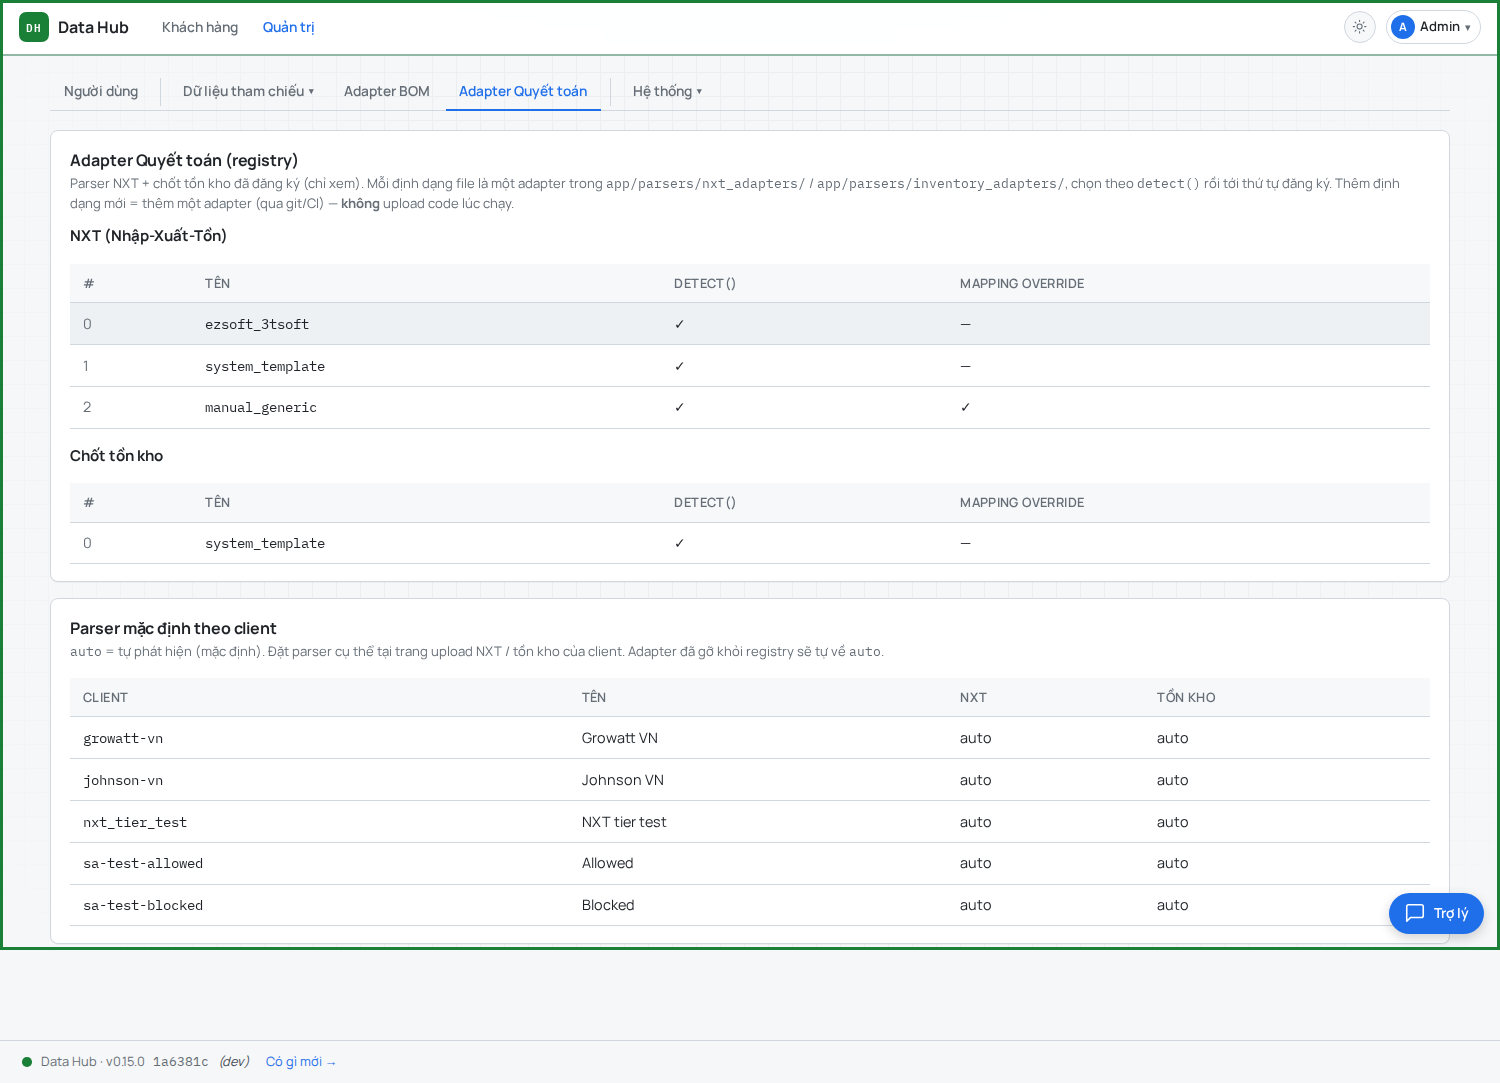
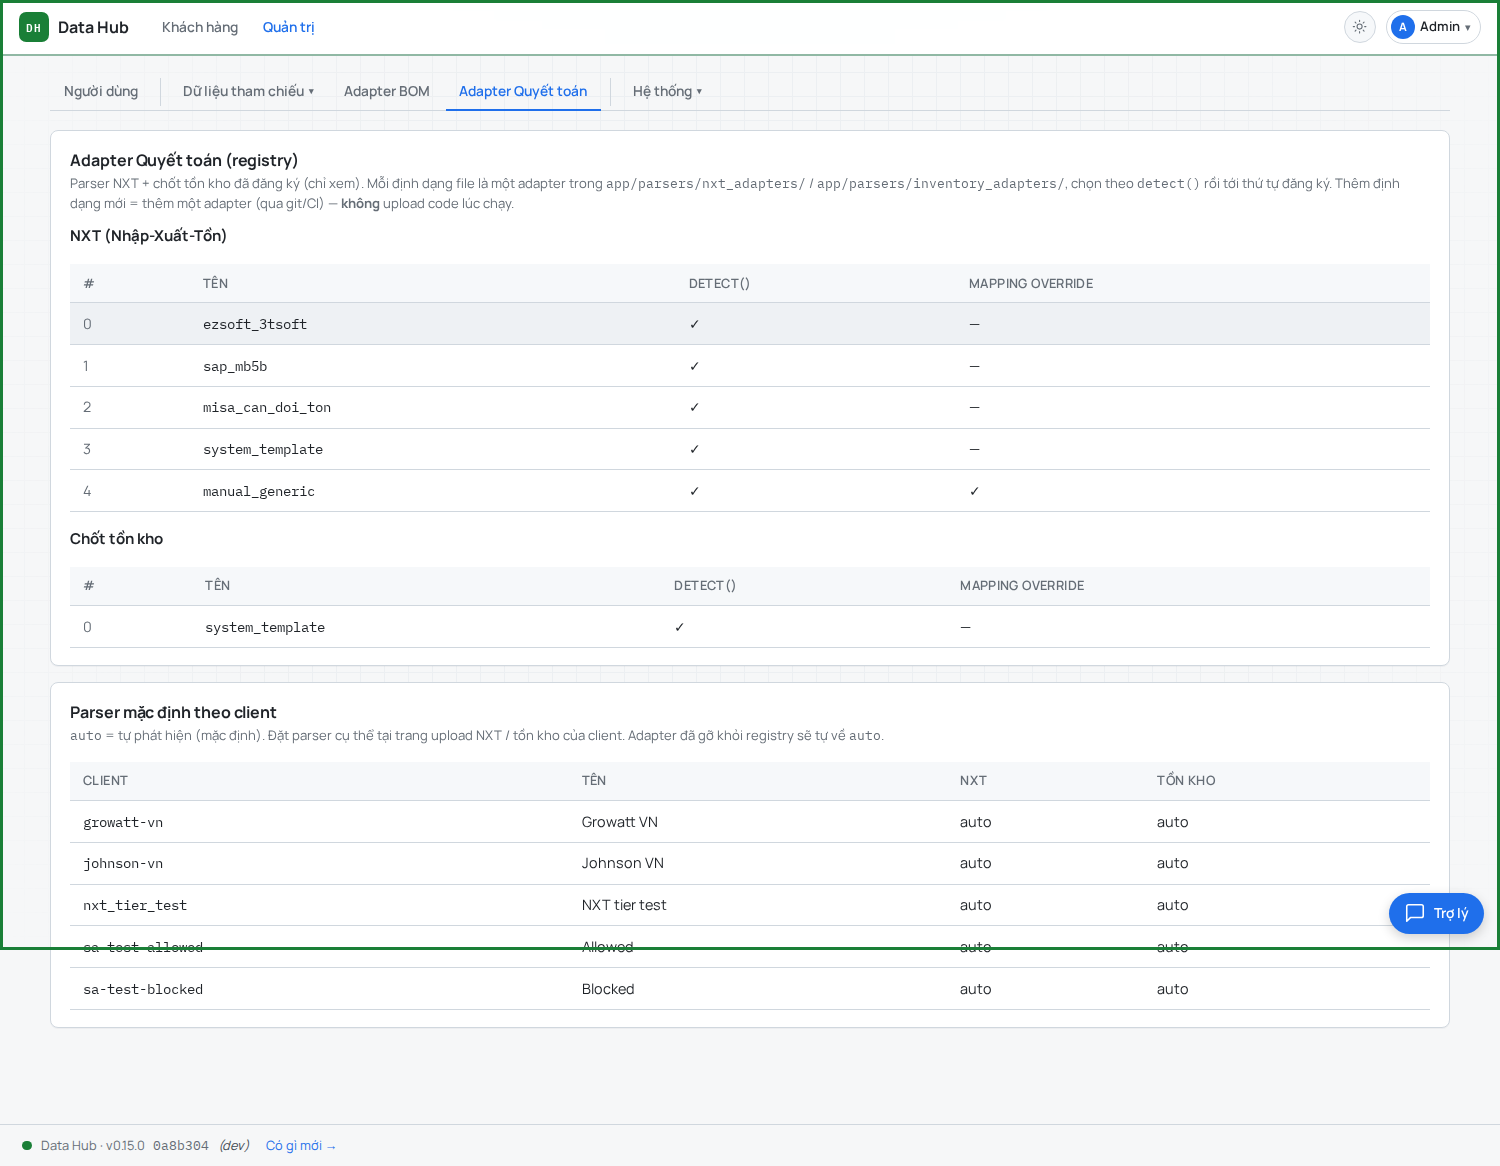
feat(nxt): sap_mb5b + misa_can_doi_ton adapters (slice 3)
Two more real-ERP NXT adapters, both validated on the real client files:
- sap_mb5b: SAP MB5B per-material detail (Johnson). Clean snake_case row-1
  headers; lumped issue → outbound_total; reported_role left null (GL/valuation
  → role is per-client SAP config, not baked into the shared adapter). 20064
  lines on the real file.
- misa_can_doi_ton: MISA "CÂN ĐỐI TỒN KHO" (Hồng Phúc/An). Two-row merged header
  at scattered columns (combined + substring matched, like ezsoft) with
  "Kho hàng:" warehouse section breaks skipped. Gated on the report title so it
  never greedily claims a generic file. 123 lines on the real file.

NXT registry now has 5 adapters. Tests: 25 in-feature + full suite 1519 passed.

diff --git a/app/parsers/nxt_adapters/misa_can_doi_ton.py b/app/parsers/nxt_adapters/misa_can_doi_ton.py
@@ -1,0 +1,116 @@
+"""misa_can_doi_ton — MISA "CÂN ĐỐI TỒN KHO" NXT export.
+
+Layout: title block (rows 1-6), a two-row merged header (row N-1 carries
+Mã Hàng / Tên Hàng / ĐVT, row N carries the Số Lượng sub-columns Đầu Kỳ / Nhập
+/ Xuất / Cuối Kỳ at scattered, merged-cell column positions), then data rows
+interleaved with "Kho hàng: …" warehouse section breaks.
+
+Headers + qty markers live on different rows and at non-adjacent columns, so —
+like ezsoft_3tsoft — this adapter combines the two header rows per column and
+matches by substring rather than the exact-match alias index.
+"""
+from __future__ import annotations
+
+from app.parsers._excel import cell_num, cell_str, load_xlsx
+
+
+def _find_col(cells: list[str], *needles: str) -> int | None:
+    for i, c in enumerate(cells):
+        low = (c or "").lower()
+        if any(n in low for n in needles):
+            return i
+    return None
+
+
+def _has_marker(ws) -> bool:
+    """True if the sheet carries the distinctive MISA report title. Keeps parse
+    keyed on the same signal as detect() so it never greedily claims a generic
+    NXT file that merely has Đầu Kỳ/Cuối Kỳ headers."""
+    head = " ".join(
+        ("" if c is None else str(c)).lower()
+        for row in ws.iter_rows(min_row=1, max_row=8, values_only=True)
+        for c in row)
+    return "cân đối tồn kho" in head
+
+
+def _qty_header_row(ws) -> int | None:
+    """The Số Lượng sub-header row — carries both Đầu Kỳ and Cuối Kỳ."""
+    for idx, row in enumerate(ws.iter_rows(min_row=1, max_row=20, values_only=True),
+                              start=1):
+        joined = " ".join(("" if c is None else str(c)).lower() for c in row)
+        if "đầu kỳ" in joined and "cuối kỳ" in joined:
+            return idx
+    return None
+
+
+class MisaCanDoiTonAdapter:
+    name = "misa_can_doi_ton"
+    label_key = "nxt.adapter.misa_can_doi_ton.label"
+    description_key = "nxt.adapter.misa_can_doi_ton.desc"
+    supports_mapping_override = False
+
+    def detect(self, blob: bytes) -> float | None:
+        try:
+            wb = load_xlsx(blob)
+        except Exception:
+            return None
+        for ws in wb.worksheets:
+            if _has_marker(ws):
+                return 0.9
+        return None
+
+    def parse(self, blob: bytes, *,
+              mapping_override: dict[str, str] | None = None) -> list[dict]:
+        from app.parsers.nxt_adapters import NxtParseError
+        try:
+            wb = load_xlsx(blob)
+        except Exception as e:
+            raise NxtParseError(f"Cannot open workbook: {e}") from e
+
+        for ws in wb.worksheets:
+            if not _has_marker(ws):
+                continue
+            qty_idx = _qty_header_row(ws)
+            if qty_idx is None:
+                continue
+            hdr_rows = list(ws.iter_rows(min_row=max(1, qty_idx - 1),
+                                         max_row=qty_idx, values_only=True))
+            width = max((len(r) for r in hdr_rows), default=0)
+            combined = []
+            for c in range(width):
+                parts = [str(r[c]).strip() for r in hdr_rows
+                         if c < len(r) and r[c] is not None and str(r[c]).strip()]
+                combined.append(" ".join(parts))
+
+            col_code = _find_col(combined, "mã hàng", "mã")
+            col_name = _find_col(combined, "tên hàng", "tên")
+            col_uom = _find_col(combined, "đvt", "đơn vị")
+            col_open = _find_col(combined, "đầu kỳ")
+            col_in = _find_col(combined, "nhập")
+            col_out = _find_col(combined, "xuất")
+            col_close = _find_col(combined, "cuối kỳ")
+            if col_code is None or (col_open is None and col_close is None):
+                continue
+
+            lines = []
+            for raw in ws.iter_rows(min_row=qty_idx + 1, values_only=True):
+                code = cell_str(raw, col_code)
+                if not code:
+                    continue  # blank row or a "Kho hàng:" section break (no code)
+                lines.append({
+                    "internal_code": code,
+                    "customs_code": None,
+                    "name": cell_str(raw, col_name),
+                    "uom": cell_str(raw, col_uom),
+                    "reported_role": None,
+                    "opening": cell_num(raw, col_open),
+                    "inbound_total": cell_num(raw, col_in),
+                    "out_tai_xuat": None, "out_chuyen_mdsd": None,
+                    "out_xuat_sx": None, "out_xuat_khac": None,
+                    "outbound_total": cell_num(raw, col_out),
+                    "closing_reported": cell_num(raw, col_close),
+                    "note": None,
+                })
+            if lines:
+                return lines
+        raise NxtParseError("No MISA CÂN ĐỐI TỒN KHO rows recognized.")

diff --git a/app/parsers/nxt_adapters/sap_mb5b.py b/app/parsers/nxt_adapters/sap_mb5b.py
@@ -1,0 +1,95 @@
+"""sap_mb5b — SAP MB5B stock/valuation export, per-material detail (Johnson).
+
+Clean tabular layout: row-1 snake_case headers, one row per material, 中文
+descriptions. A single lumped issue total → outbound_total.
+
+reported_role is left null: the SAP gl_account / valuation_class → NVL/TP/BTP
+mapping is per-client SAP config, not generic. The catalog resolves the
+authoritative class at runtime; a per-client GL map can populate role later
+without overfitting this shared adapter.
+"""
+from __future__ import annotations
+
+from app.parsers._excel import cell_num, cell_str, load_xlsx
+
+# MB5B header → canonical field.
+_COLMAP = {
+    "material": "internal_code",
+    "material_description": "name",
+    "base_unit": "uom",
+    "opening_stock_qty": "opening",
+    "total_receipt_qty": "inbound_total",
+    "total_issue_qty": "outbound_total",
+    "closing_stock_qty": "closing_reported",
+}
+# Headers that together unambiguously identify an MB5B export.
+_SIGNATURE = {"gl_account", "valuation_class", "opening_stock_qty",
+              "closing_stock_qty"}
+
+
+def _header_map(ws) -> tuple[int, dict[str, int]] | None:
+    """Row-1 header → {header_lower: col_idx}, if it looks like MB5B."""
+    for row in ws.iter_rows(min_row=1, max_row=1, values_only=True):
+        cells = {(str(c).strip().lower() if c is not None else ""): i
+                 for i, c in enumerate(row)}
+        cells.pop("", None)
+        if _SIGNATURE <= set(cells):
+            return 1, cells
+    return None
+
+
+class SapMb5bAdapter:
+    name = "sap_mb5b"
+    label_key = "nxt.adapter.sap_mb5b.label"
+    description_key = "nxt.adapter.sap_mb5b.desc"
+    supports_mapping_override = False
+
+    def detect(self, blob: bytes) -> float | None:
+        try:
+            wb = load_xlsx(blob)
+        except Exception:
+            return None
+        for ws in wb.worksheets:
+            if _header_map(ws) is not None:
+                return 0.93
+        return None
+
+    def parse(self, blob: bytes, *,
+              mapping_override: dict[str, str] | None = None) -> list[dict]:
+        from app.parsers.nxt_adapters import NxtParseError
+        try:
+            wb = load_xlsx(blob)
+        except Exception as e:
+            raise NxtParseError(f"Cannot open workbook: {e}") from e
+
+        for ws in wb.worksheets:
+            hm = _header_map(ws)
+            if hm is None:
+                continue
+            _, header = hm
+            cols = {field: header[h] for h, field in _COLMAP.items() if h in header}
+            if "internal_code" not in cols:
+                continue
+            lines = []
+            for raw in ws.iter_rows(min_row=2, values_only=True):
+                code = cell_str(raw, cols.get("internal_code"))
+                if not code:
+                    continue
+                line = {
+                    "internal_code": code,
+                    "customs_code": None,
+                    "name": cell_str(raw, cols.get("name")),
+                    "uom": cell_str(raw, cols.get("uom")),
+                    "reported_role": None,
+                    "opening": cell_num(raw, cols.get("opening")),
+                    "inbound_total": cell_num(raw, cols.get("inbound_total")),
+                    "out_tai_xuat": None, "out_chuyen_mdsd": None,
+                    "out_xuat_sx": None, "out_xuat_khac": None,
+                    "outbound_total": cell_num(raw, cols.get("outbound_total")),
+                    "closing_reported": cell_num(raw, cols.get("closing_reported")),
+                    "note": None,
+                }
+                lines.append(line)
+            if lines:
+                return lines
+        raise NxtParseError("No SAP MB5B material rows recognized.")

diff --git a/tests/test_nxt_inventory_tier.py b/tests/test_nxt_inventory_tier.py
@@ -474,3 +474,73 @@ def test_nxt_mapping_page_flow_and_cache(isolated_files_dir):
                 follow_redirects=False)
     assert r2.status_code == 303
     assert "/nxt/preview/" in r2.headers["location"]
+
+
+# ── sap_mb5b adapter (SAP MB5B per-material detail) ──────────────────────
+
+def _build_mb5b_xlsx() -> bytes:
+    import io
+    from openpyxl import Workbook
+    wb = Workbook(); ws = wb.active; ws.title = "Sheet1"
+    ws.append(["material", "material_description", "gl_account", "valuation_class",
+               "base_unit", "opening_stock_qty", "total_receipt_qty",
+               "total_issue_qty", "closing_stock_qty"])
+    ws.append(["0000080692", "磁控連接線", "12150000", "3000", "EA", 0, 720, 0, 720])
+    ws.append(["0000080058", "橡膠", "12150000", "3000", "EA", 100, 50, 30, 120])
+    out = io.BytesIO(); wb.save(out)
+    return out.getvalue()
+
+
+def test_sap_mb5b_adapter():
+    from app.parsers.nxt_adapters._common import closing_implied
+    from app.parsers.nxt_adapters.sap_mb5b import SapMb5bAdapter
+    blob = _build_mb5b_xlsx()
+    assert SapMb5bAdapter().detect(blob) == pytest.approx(0.93)
+    lines, name = nxt_adapters.parse_with_fallback(blob)
+    assert name == "sap_mb5b"
+    assert len(lines) == 2
+    a = lines[1]
+    assert a["internal_code"] == "0000080058" and a["uom"] == "EA"
+    assert a["opening"] == 100 and a["inbound_total"] == 50
+    assert a["outbound_total"] == 30 and a["closing_reported"] == 120
+    assert a["reported_role"] is None  # GL→role is per-client, not in adapter
+    assert closing_implied(a) == pytest.approx(120.0)
+
+
+# ── misa_can_doi_ton adapter (merged header + warehouse section breaks) ──
+
+def _build_misa_xlsx() -> bytes:
+    import io
+    from openpyxl import Workbook
+    wb = Workbook(); ws = wb.active; ws.title = "Page1"
+    ws.cell(4, 1, "CÂN ĐỐI TỒN KHO")
+    ws.cell(5, 1, "Từ ngày: 01/01/2024 - Đến ngày: 31/12/2024")
+    # row 7 (code/name/uom) + row 8 (qty sub-cols) at scattered columns
+    ws.cell(7, 1, "STT"); ws.cell(7, 2, "Mã Hàng"); ws.cell(7, 6, "Tên Hàng")
+    ws.cell(7, 10, "ĐVT"); ws.cell(7, 11, "Số Lượng")
+    ws.cell(8, 11, "Đầu Kỳ"); ws.cell(8, 13, "Nhập"); ws.cell(8, 17, "Xuất")
+    ws.cell(8, 19, "Cuối Kỳ")
+    ws.cell(9, 1, "Kho hàng: KHO-NK")  # section break — no code → skipped
+    ws.cell(10, 1, 1); ws.cell(10, 2, "NK-DAYG"); ws.cell(10, 6, "Dây giầy")
+    ws.cell(10, 10, "Đôi"); ws.cell(10, 11, 41913); ws.cell(10, 17, 1912)
+    ws.cell(10, 19, 40001)
+    ws.cell(11, 1, 2); ws.cell(11, 2, "NK-CK"); ws.cell(11, 6, "Chỉ khâu")
+    ws.cell(11, 10, "Mét"); ws.cell(11, 11, 100); ws.cell(11, 13, 20)
+    ws.cell(11, 17, 30); ws.cell(11, 19, 90)
+    out = io.BytesIO(); wb.save(out)
+    return out.getvalue()
+
+
+def test_misa_can_doi_ton_adapter():
+    from app.parsers.nxt_adapters.misa_can_doi_ton import MisaCanDoiTonAdapter
+    blob = _build_misa_xlsx()
+    assert MisaCanDoiTonAdapter().detect(blob) == pytest.approx(0.9)
+    lines, name = nxt_adapters.parse_with_fallback(blob)
+    assert name == "misa_can_doi_ton"
+    assert len(lines) == 2  # the "Kho hàng:" section break row is skipped
+    dayg = lines[0]
+    assert dayg["internal_code"] == "NK-DAYG" and dayg["uom"] == "Đôi"
+    assert dayg["opening"] == 41913 and dayg["outbound_total"] == 1912
+    assert dayg["closing_reported"] == 40001
+    ck = lines[1]
+    assert ck["inbound_total"] == 20 and ck["closing_reported"] == 90

diff --git a/app/parsers/nxt_adapters/__init__.py b/app/parsers/nxt_adapters/__init__.py
@@ -125,9 +125,13 @@ def parse_with_fallback(blob: bytes) -> tuple[list[dict], str] | None:
 # Eager import + register builtin adapters. Order = fallback order when no
 # detect() score discriminates; high-precision (distinctive sheet/header) first.
 from app.parsers.nxt_adapters.ezsoft_3tsoft import Ezsoft3TSoftAdapter  # noqa: E402
+from app.parsers.nxt_adapters.sap_mb5b import SapMb5bAdapter  # noqa: E402
+from app.parsers.nxt_adapters.misa_can_doi_ton import MisaCanDoiTonAdapter  # noqa: E402
 from app.parsers.nxt_adapters.system_template import SystemTemplateNxtAdapter  # noqa: E402
 from app.parsers.nxt_adapters.manual_generic import ManualGenericNxtAdapter  # noqa: E402
 
 register(Ezsoft3TSoftAdapter())       # distinctive "EZSOFT - 3TSoft" sheet
+register(SapMb5bAdapter())            # SAP MB5B snake_case header signature
+register(MisaCanDoiTonAdapter())      # MISA "CÂN ĐỐI TỒN KHO" merged header
 register(SystemTemplateNxtAdapter())  # canonical NVL/TP/BTP template
 register(ManualGenericNxtAdapter())   # last-resort alias/override fallback

diff --git a/.ai/features/2026-06-14-nxt-inventory-tier/brief.md b/.ai/features/2026-06-14-nxt-inventory-tier/brief.md
@@ -23,7 +23,18 @@
   mapping_override travels into preview/confirm so the immutable artifact re-parses
   identically.
 **Slice 2 COMPLETE.** Tests: 23 in this feature + full suite 1517 passed.
-UI proof in `screenshots/` (08 = mapping page). Slices 3-4 pending.
+UI proof in `screenshots/` (08 = mapping page).
+- **Slice 3 COMPLETE**: two more real-ERP NXT adapters.
+  - `sap_mb5b` — SAP MB5B per-material detail (Johnson). Clean snake_case row-1
+    headers, lumped issue → outbound_total, reported_role null (GL→role is per-client
+    config, not in the shared adapter). Validated: 20064 lines on the real file.
+  - `misa_can_doi_ton` — MISA "CÂN ĐỐI TỒN KHO" (Hồng Phúc/An). Two-row merged
+    header at scattered columns (combined + substring-matched, like ezsoft) +
+    "Kho hàng:" warehouse section breaks skipped. Gated on the report title so it
+    never greedily claims a generic file. Validated: 123 lines on the real file.
+  NXT registry now has 5 adapters. Tests: 25 in-feature + full suite 1519 passed.
+**Remaining: slice 4** — inventory `kiem_ke_multi_kho` (DKE multi-warehouse
+physical count) + closing↔opening↔snapshot link + `/v1/hub` read API for BCQT.
 **Owner:** Data Hub
 
 ## Goal
